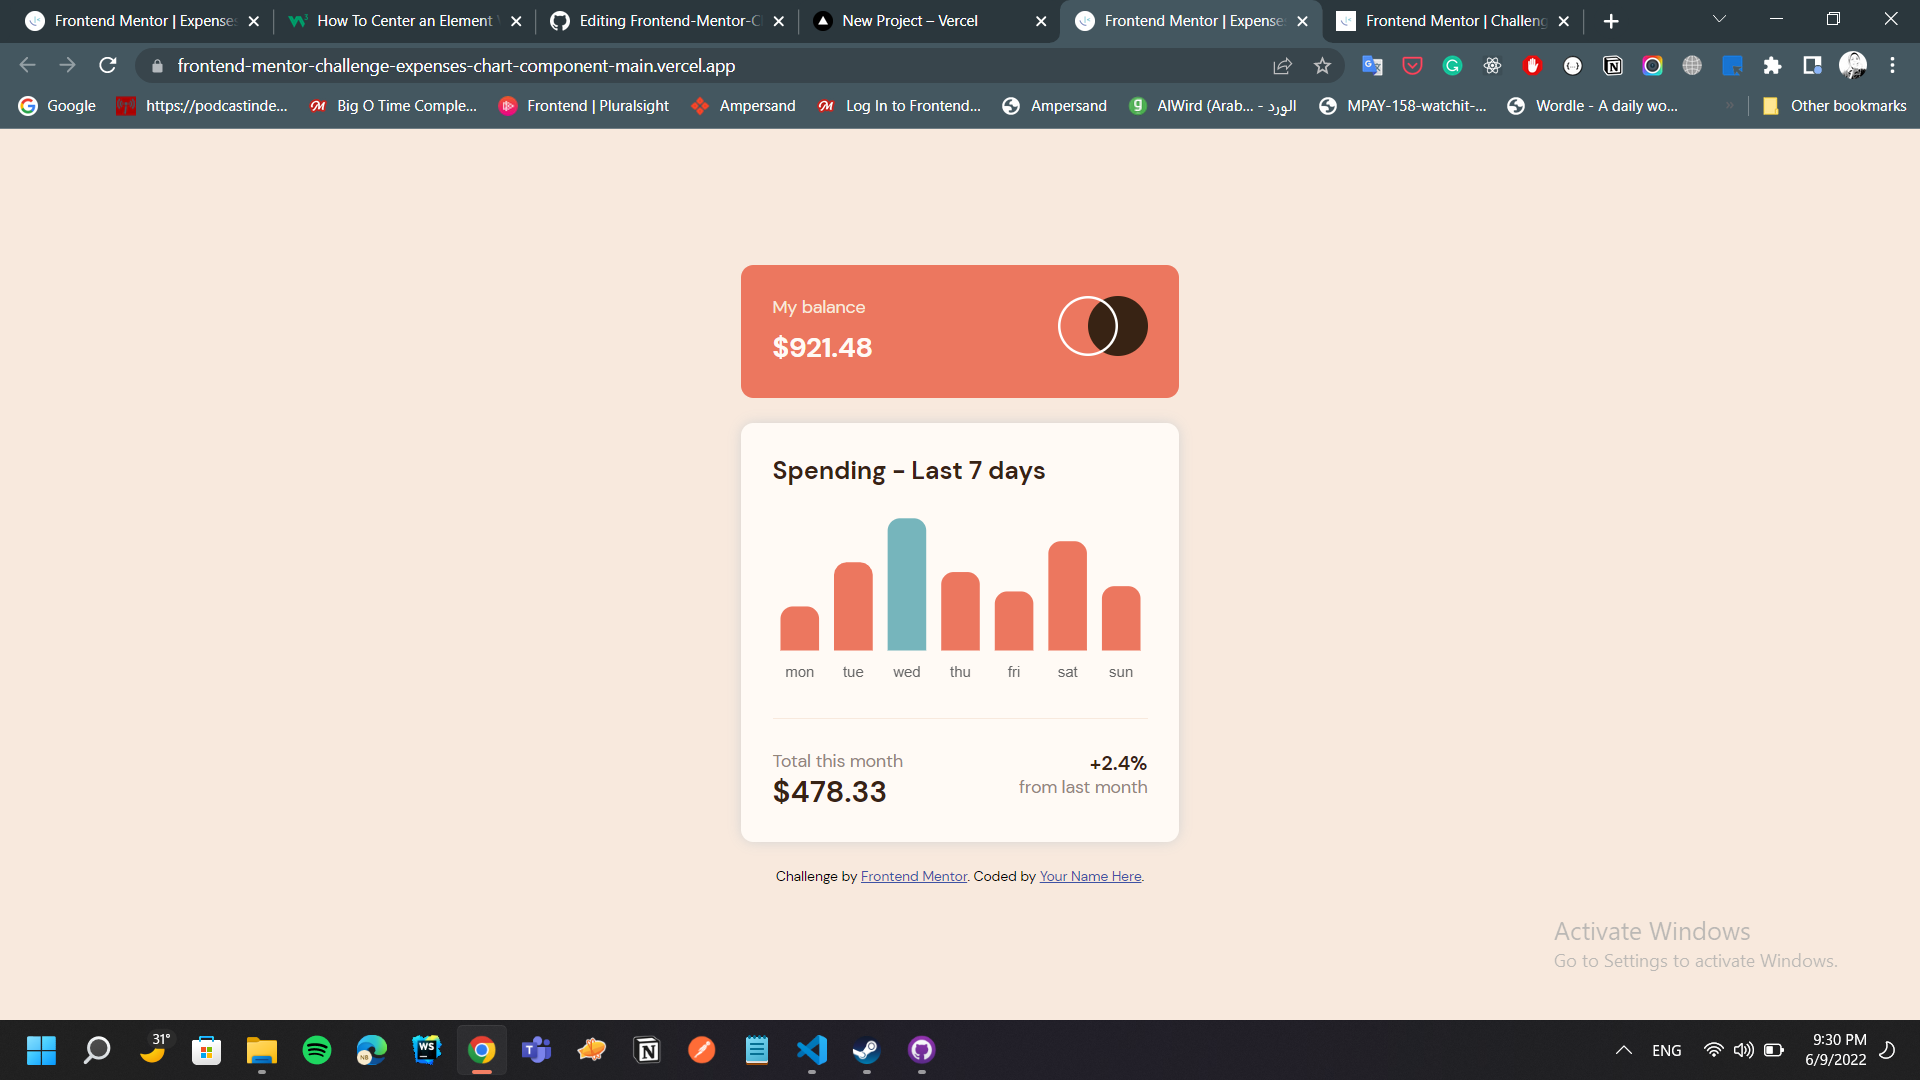
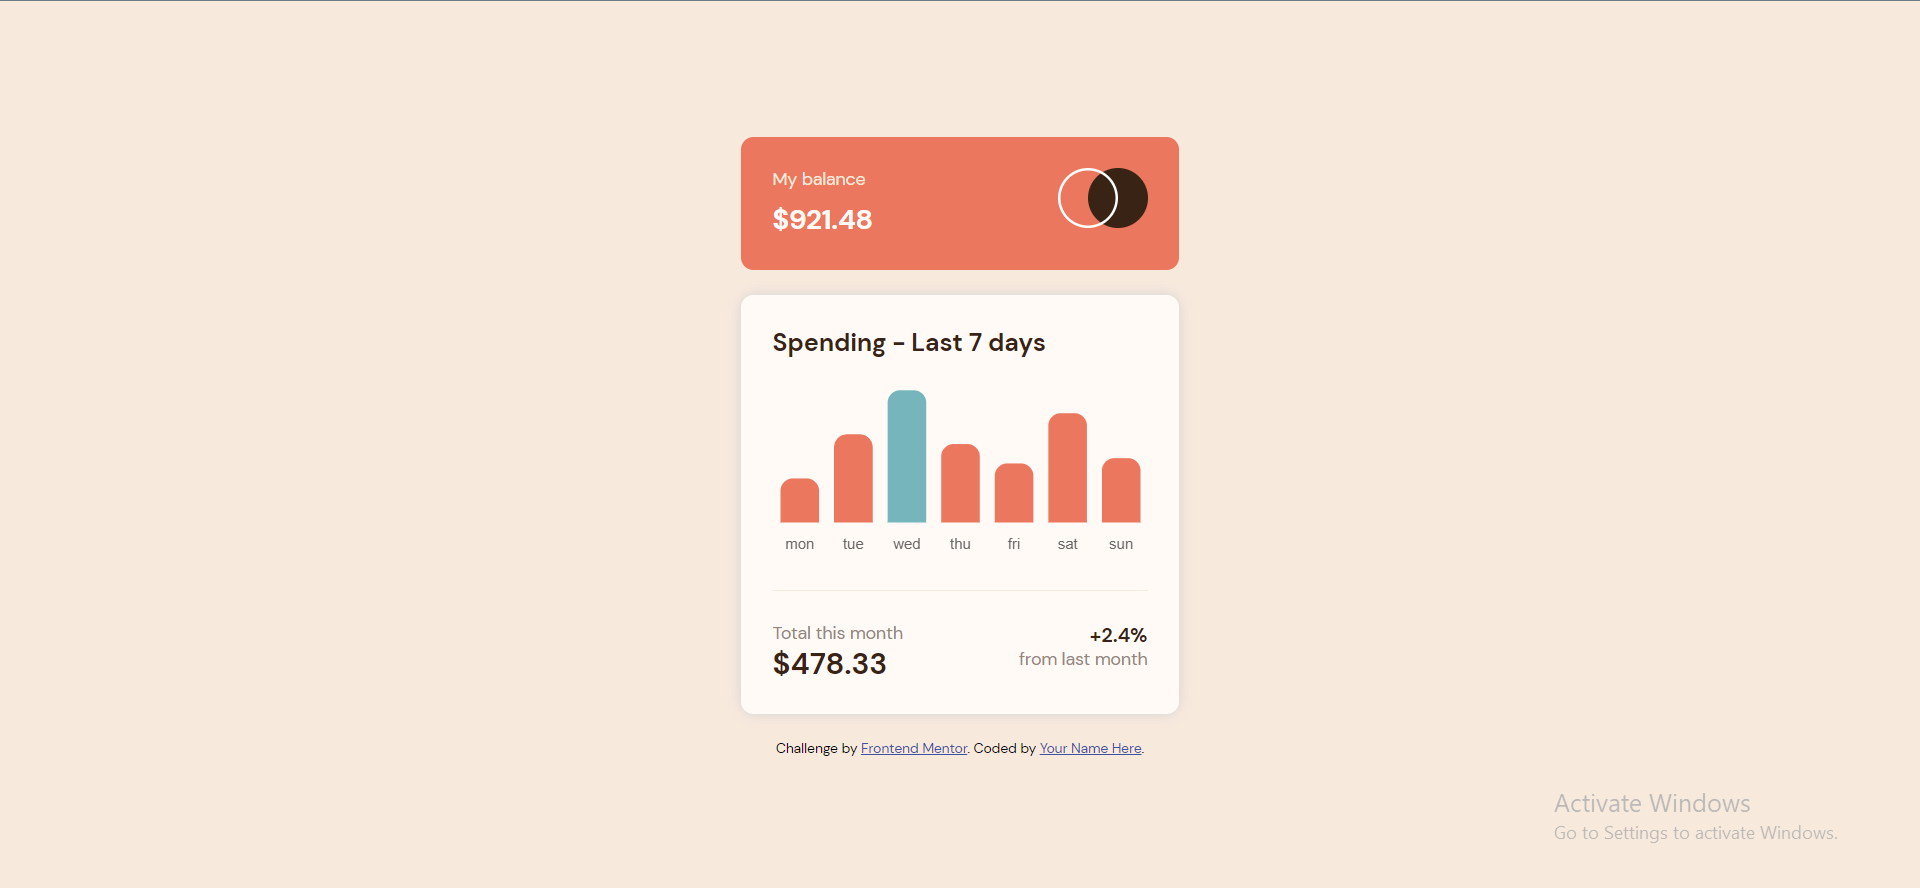
edited the screenshot image & edited the attribution

diff --git a/index.html b/index.html
@@ -49,7 +49,7 @@
 
   <div class="attribution">
     Challenge by <a href="https://www.frontendmentor.io?ref=challenge" target="_blank">Frontend Mentor</a>. 
-    Coded by <a href="#">Your Name Here</a>.
+    Coded by <a href="https://github.com/NohaaAa">Noha M.</a>.
   </div>
   <script type="text/javascript" src="./data.json"></script>
   <script type="text/javascript" src="./script.js"></script>
